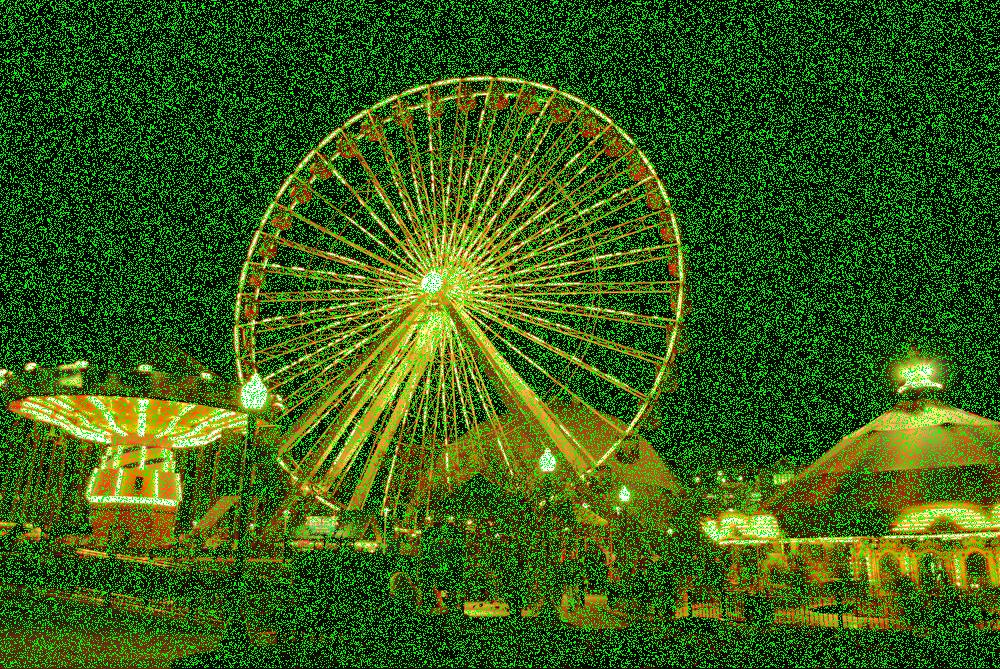
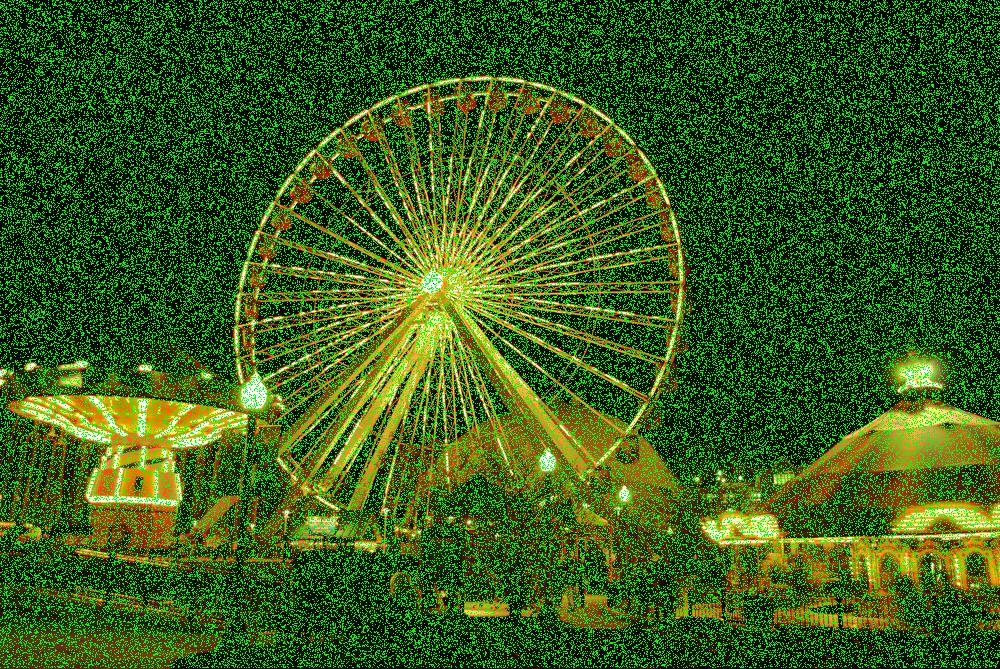
ef

diff --git a/ColorLabs17/TestPicture17.java b/ColorLabs17/TestPicture17.java
@@ -77,23 +77,22 @@ public class TestPicture17
         yuck.setColor(Color.green);
     }
     //ferris1.explore();
-    
-    
-    
 /*
     pixels[17].setColor(Color.blue);
     spot.setColor(new Color(252,252,252));
     pixels[500034].setColor(Color.blue);
-
     ferris1.explore();
 /**/
-   // loop to access indexes of array or collection
-
-    //for each loop spot  is a ?
-    //goes through all the pixels
+//●1 of adjustRed(double factor), adjustGreen(double factor),adjustBlue(double factor)
+//●negate()
+//●grayscale()
+//●lighten() or darken()
+//●changeColor()
+//●colorify() or blueify()
     int red;
     int blue;
     int green;
+    //FIRST ONE*)*&*^#*@^$*&@#^*$^@*&$@^$*&@^*(%^*@$&^*(@^*$#^#@^
     for (Pixel spot1 : mpixels){
         //System.out.println( spot1 );
         red = spot1.getRed();
@@ -101,18 +100,34 @@ public class TestPicture17
         green = spot1.getGreen();
         
         
-        red = (int)(red * .0000000);
+        red = (int)(red * 2);
         blue = (int)(blue * 2);
-        green = (int)(green * .000000000);
+        green = (int)(green * 2);
         
         spot1.setRed(red);
         spot1.setGreen(green);
         spot1.setBlue(blue);
         
     }
-
     moto.explore();
-
+    //SECOND ONE 239587496868632486598734640397(*&^%&$%#@
+    for (Pixel spot1 : mpixels){
+        //System.out.println( spot1 );
+        red = spot1.getRed();
+        blue = spot1.getBlue();
+        green = spot1.getGreen();
+        
+        
+        red = (int)(red * 2);
+        blue = (int)(blue * 2);
+        green = (int)(green * 2);
+        
+        spot1.setRed(red);
+        spot1.setGreen(green);
+        spot1.setBlue(blue);
+        
+    }
+    moto.explore();
    
  /**/
 
